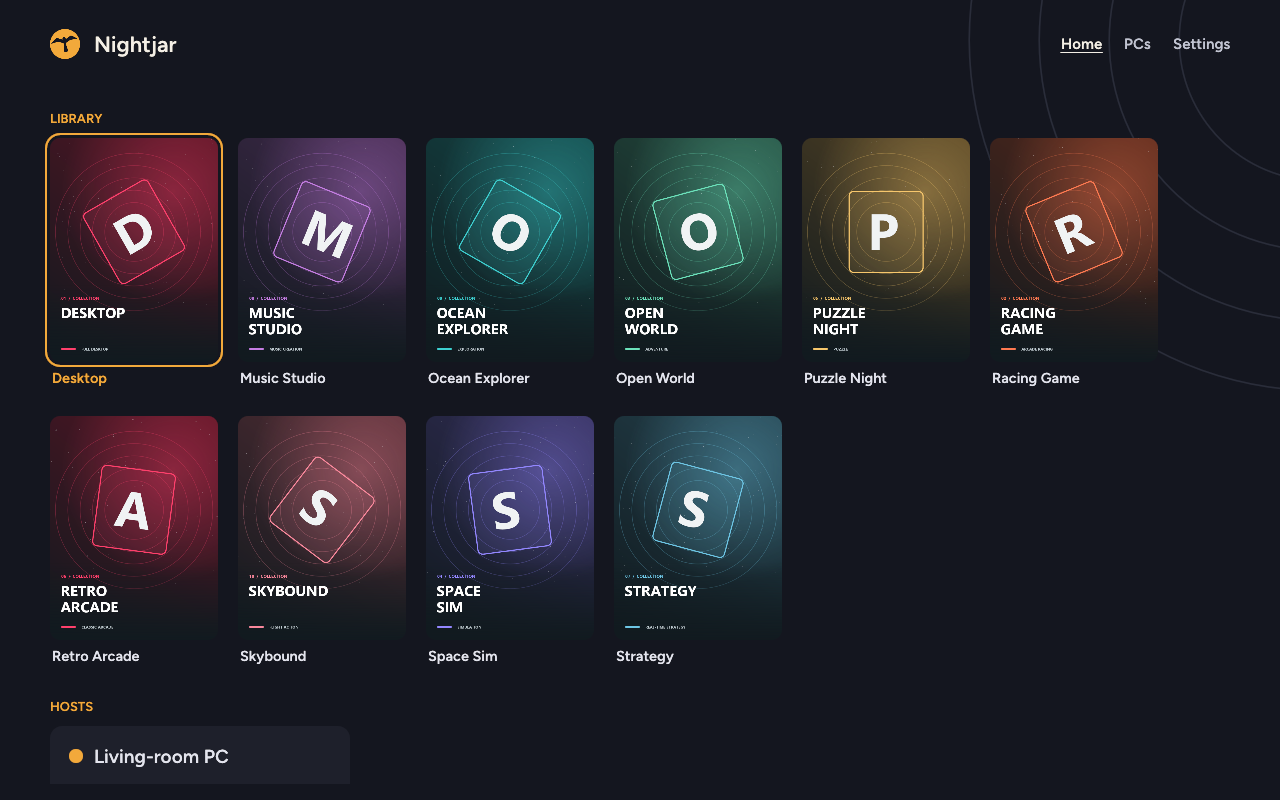
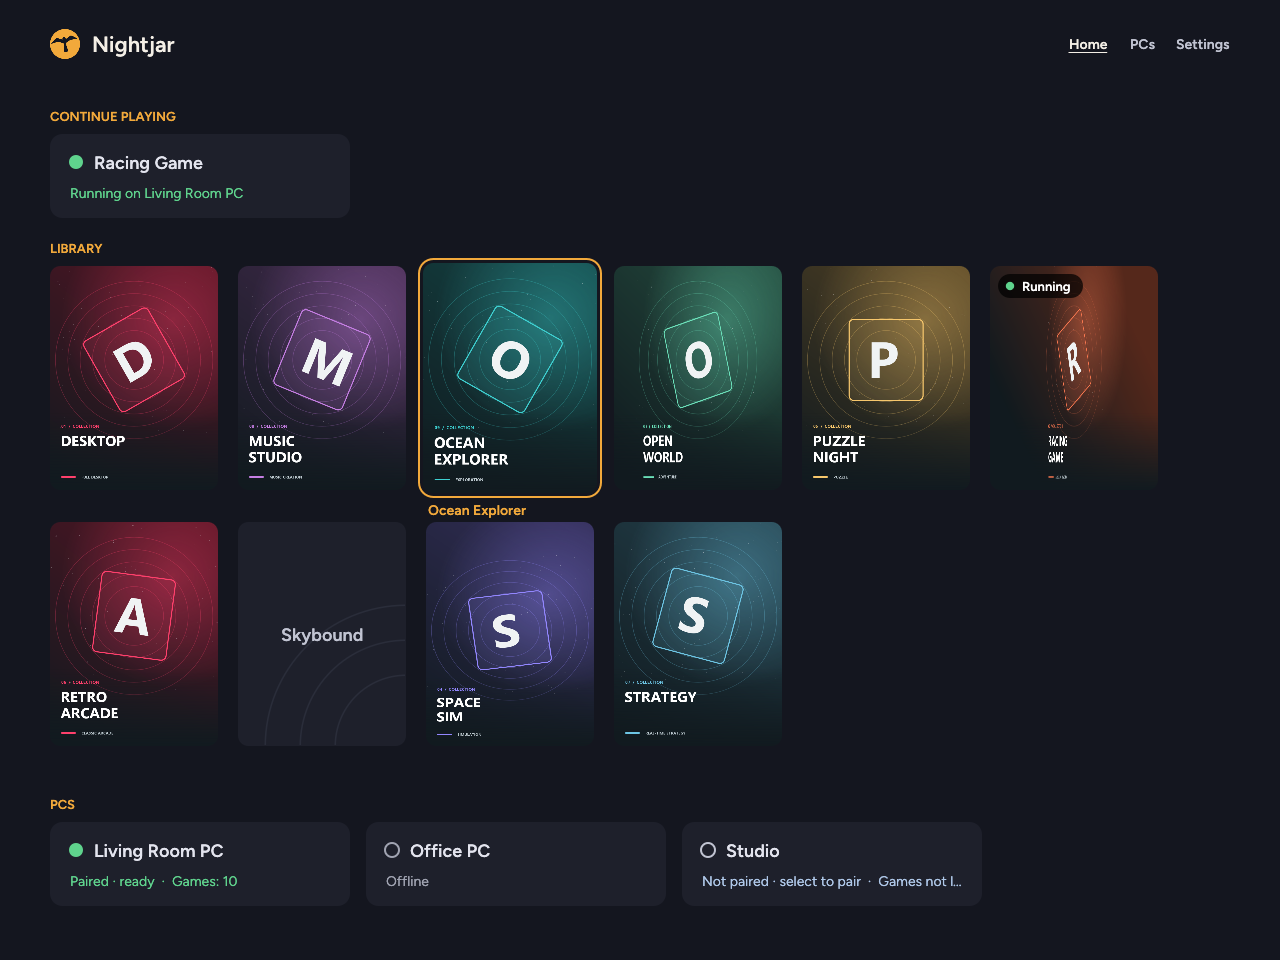
docs(nightjar-desktop): refresh the desktop Home screenshot

diff --git a/client/README.md b/client/README.md
@@ -93,7 +93,7 @@ No accounts, advertising or analytics, and nothing sent to its developers. Video
   <sub><b>A real PC keyboard.</b> Esc, F1 to F12, arrows and sticky modifiers, by touch, controller or TV remote.</sub>
 </td>
 <td valign="top">
-  <img src="docs/assets/shots/desktop-home.png" alt="Nightjar for Windows: Home with a library of games as cover art and the PC below (demo library)"><br>
+  <img src="docs/assets/shots/desktop-home.png" alt="Nightjar for Windows: Home with the game in progress, a library of games as cover art and the PCs below (demo library)"><br>
   <sub><b>On the desktop too.</b> The same engine and settings on Windows and Linux, with VRR and beam racing.</sub>
 </td>
 </tr>
